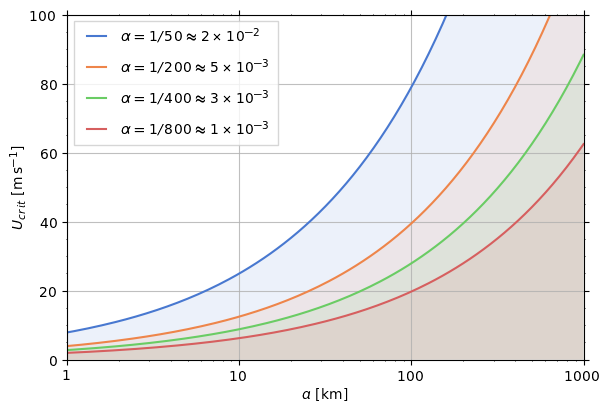
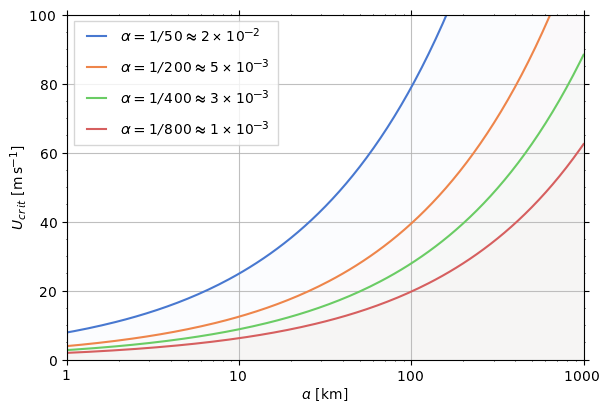
update figures

Changed region(s): [[0.0933, 0.146, 0.964, 0.8759]]

diff --git a/theory/theory_part1.py b/theory/theory_part1.py
@@ -52,7 +52,7 @@ def theory_figure_speed_vs_size(
         plt.fill_between(
             a / 1000.0,
             u_crit[i, :],
-            alpha=0.1,
+            alpha=0.04,
             rasterized=True,
         )
 
@@ -110,7 +110,7 @@ def theory_figure_wavelength_vs_size(
         plt.fill_between(
             a / 1000.0,
             wavelength[i, :] / 1000.0,
-            alpha=0.1,
+            alpha=0.04,
             rasterized=True,
         )
 
@@ -177,7 +177,7 @@ def theory_figure_wavelength_vs_velocity(
         plt.fill_between(
             velocity,
             wavelength[i, :] / 1000.0,
-            alpha=0.1,
+            alpha=0.04,
             rasterized=True,
         )
 

diff --git a/theory/theory_part3.py b/theory/theory_part3.py
@@ -234,7 +234,7 @@ def theory_figure_cross(
         # ax.fill_between(
         #     cross["distance"] / 1e3,
         #     cross,
-        #     alpha=0.1,
+        #     alpha=0.04,
         #     rasterized=False,
         # )
 
